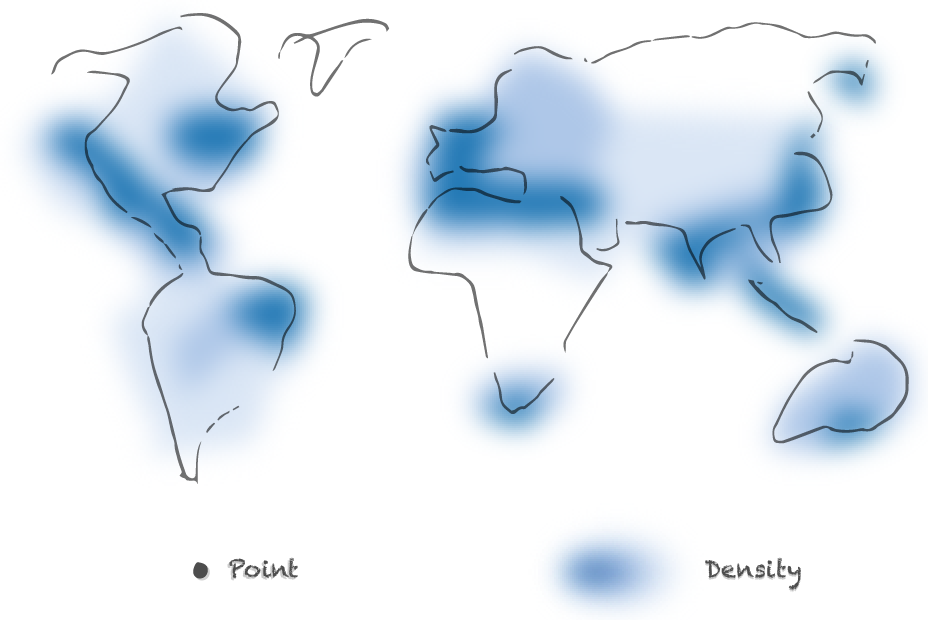
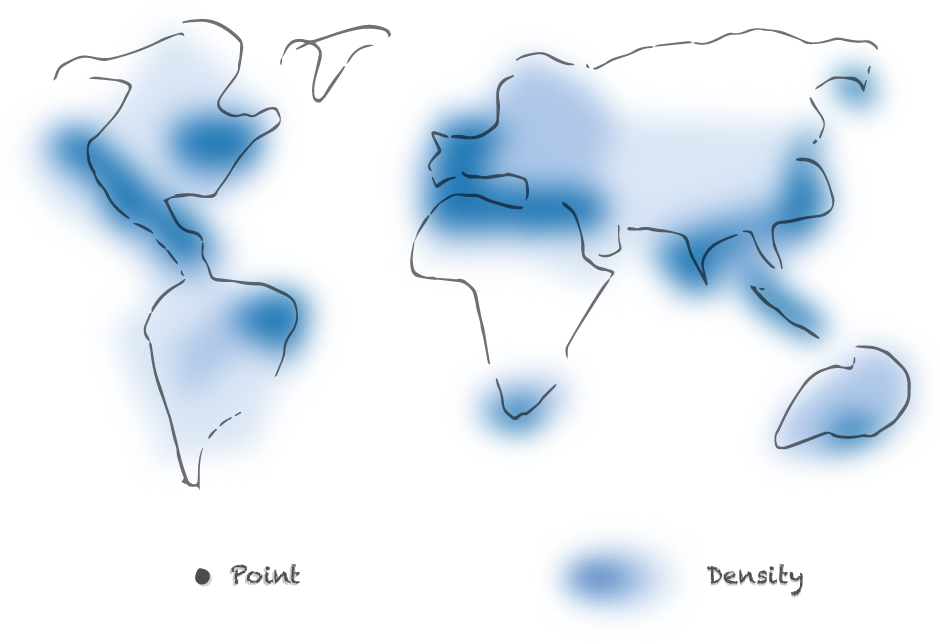
Add background images from UX

diff --git a/webapps/density-custom-chart/body.html b/webapps/density-custom-chart/body.html
@@ -16,7 +16,7 @@
 
     <div id="error-warning-view" class="error-warning-view-style">
         <div id="error-message" class="error-message-style"></div>
-        <img src="/plugins/geospatial-toolkit/resource/media/density_map.png" style="width: 100%; height: 100%;">
+        <img src="/plugins/geospatial-toolkit/resource/media/density-map@2x.png" style="width: 100%; height: 100%;">
     </div>
 
     <div id="tooltip"></div>
